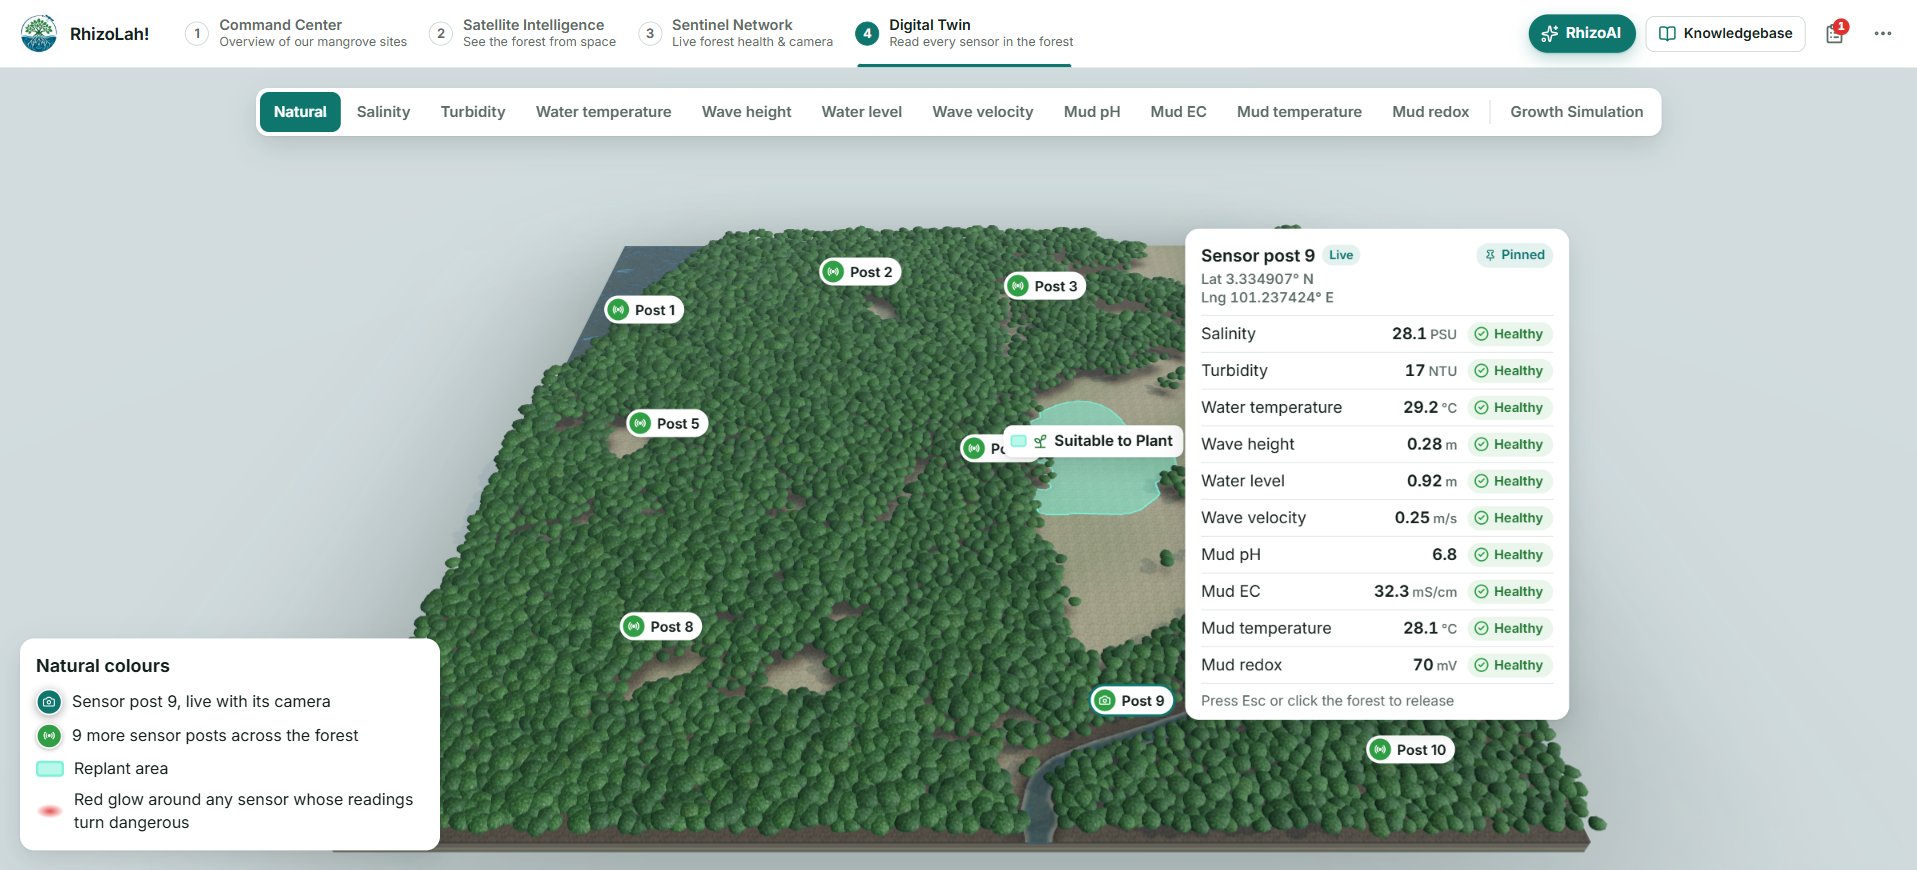
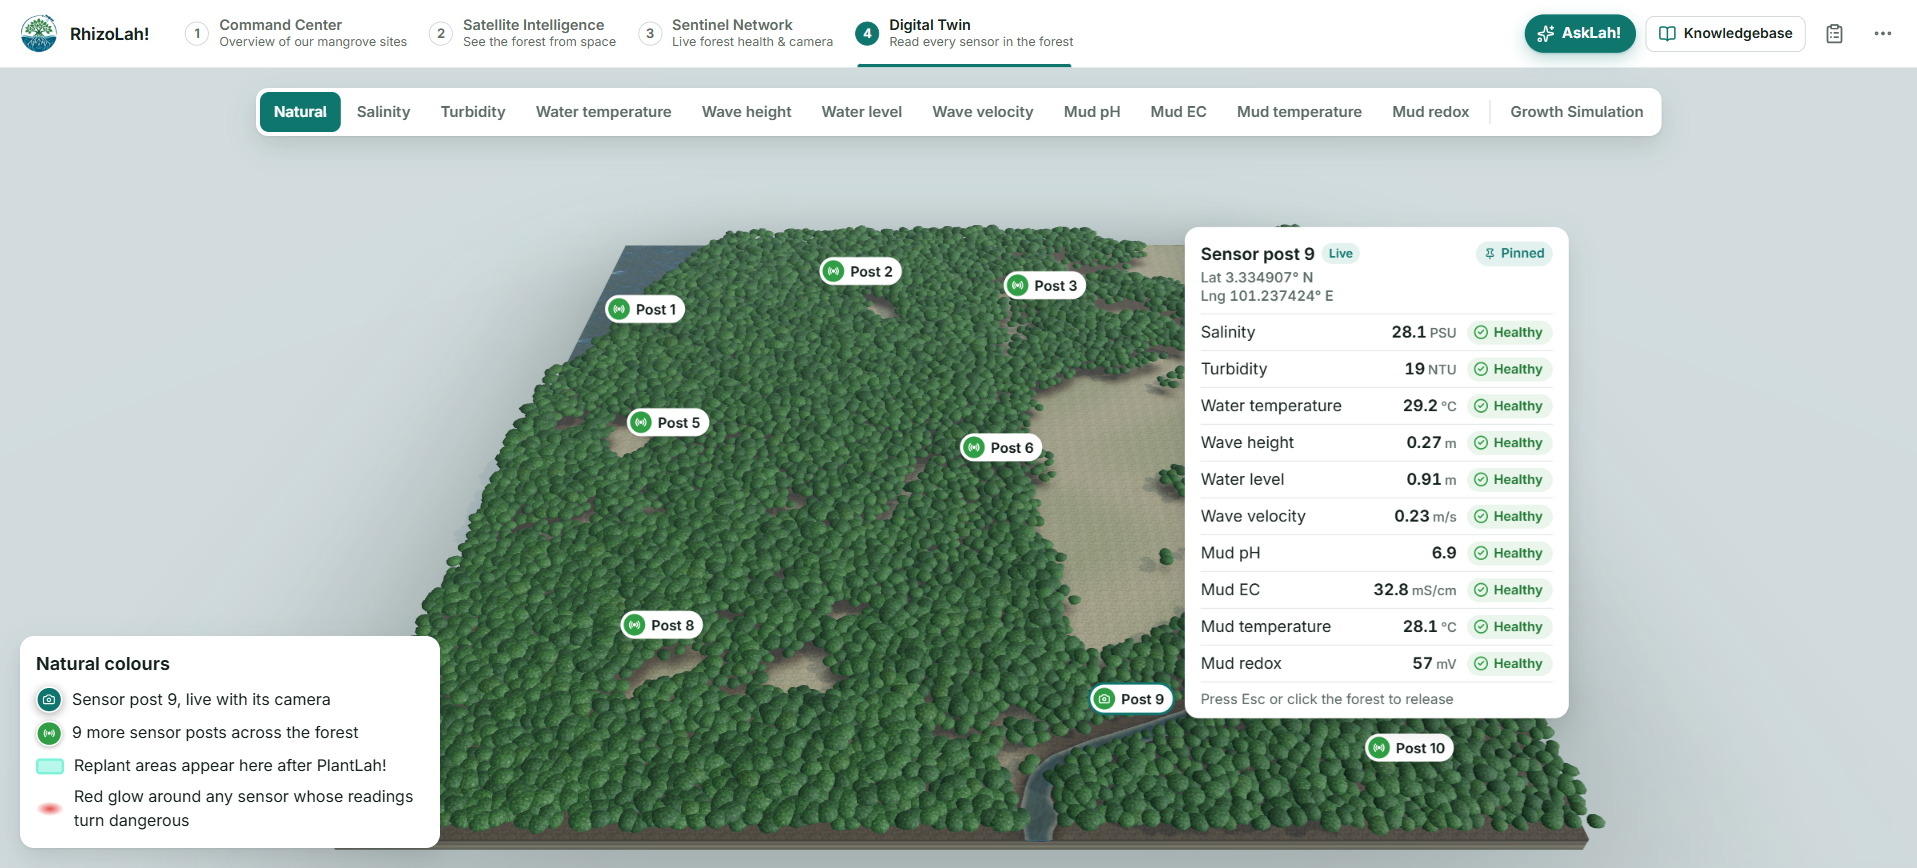
AskLah!

diff --git a/src/chat/ask.ts b/src/chat/ask.ts
@@ -14,7 +14,7 @@ export interface ChatTurn {
 const HISTORY_TURNS = 8
 
 function systemPrompt(): string {
-  return `You are "Ask RhizoLah!", the assistant inside RhizoLah!, a mangrove monitoring demo for Kuala Selangor Nature Park, Malaysia. Visitors are park staff, students and judges; write plain, friendly English (or the visitor's language if they write in Malay or another language).
+  return `You are "Ask RhizoLah!", the assistant inside RhizoLah! (Blue Carbon Sentinel), a mangrove monitoring demo for Kuala Selangor Nature Park, Malaysia. Visitors are park staff, students and judges; write plain, friendly English (or the visitor's language if they write in Malay or another language).
 
 RULES (follow every one):
 1. Answer ONLY from the KNOWLEDGEBASE and the LIVE SITUATION below. Do not use outside knowledge, do not invent numbers, species, pages or studies.

diff --git a/src/chat/Chatbot.tsx b/src/chat/Chatbot.tsx
@@ -168,7 +168,7 @@ export function ChatButton() {
       title="Ask RhizoLah! (AI answers from the Knowledgebase)"
       data-testid="chat-button"
     >
-      <Sparkles size={18} aria-hidden="true" /> <span className="chat-fab-word">RhizoAI</span>
+      <Sparkles size={18} aria-hidden="true" /> <span className="chat-fab-word">AskLah!</span>
     </button>
   )
 }

diff --git a/src/styles/app.css b/src/styles/app.css
@@ -1,4 +1,4 @@
-/* RhizoLah! demo. Light theme with the PRD's colour tokens (decision 4). */
+/* Blue Carbon Sentinel demo. Light theme with the PRD's colour tokens (decision 4). */
 
 :root {
   --bg: #F6F8F7;

diff --git a/README.md b/README.md
@@ -1,8 +1,8 @@
-# RhizoLah!
+# RhizoLah! | Blue Carbon Sentinel
 
 A browser-based demonstration of mangrove monitoring at Kuala Selangor Nature Park, Malaysia. Explore the site on a satellite map, compare it with a 3D forest, follow environmental readings, and try danger detection and replanting scenarios. With **Add Location** you can pick any 500 × 500 m square on Earth and the app generates a matching 3D forest for it from the live satellite image.
 
-This repository contains a frontend demo built with React, TypeScript and Vite. Sensor readings, camera activity, replanting scans and the text labelled "AI Suggestion" are simulated or generated locally. Satellite imagery comes from Mapbox. The one real AI feature is the **RhizoAI** chat, which uses the SEA-LION API and needs a SEA-LION API key (optional; everything else works without it). You do not need a backend, database or connected ESP32 board to run it.
+This repository contains a frontend demo built with React, TypeScript and Vite. Sensor readings, camera activity, replanting scans and the text labelled "AI Suggestion" are simulated or generated locally. Satellite imagery comes from Mapbox. The one real AI feature is the **AskLah!** chat, which uses the SEA-LION API and needs a SEA-LION API key (optional; everything else works without it). You do not need a backend, database or connected ESP32 board to run it.
 
 - [Product overview](#product-overview)
 - [Set up the project](#set-up-the-project)
@@ -30,19 +30,19 @@ See the Malaysian site catalogue, mangrove area, forest health and camera status
 
 Compare Mapbox satellite imagery on the left (captioned with the site name, or its latitude and longitude when it has none) with a 3D model of the same forest on the right. For Kuala Selangor the model uses stored, hand-traced canopy and water outlines. For any other site it is generated from the satellite image each time the site is opened. Drag to rotate the model, scroll to zoom, and select Sensor post 9 (the live post) to open its readings in Sentinel Network. Every post is labelled on the model ("Post 1" to "Post 10"), including the ones that are not live.
 
-![Satellite Intelligence showing the 500 by 500 metre satellite image of Kuala Selangor beside its 3D mangrove model and ten labelled sensor posts, with Sensor post 9 live](docs/images/satellite-intelligence.png)
+![Satellite Intelligence showing the 500 by 500 metre satellite image beside its 3D mangrove model and ten sensor posts](docs/images/satellite-intelligence.png)
 
 ### 3. Sentinel Network
 
 Follow ten measurements updated every two seconds: salinity, turbidity, water temperature, wave height, water level, wave velocity, mud pH, mud EC, mud temperature and mud redox. Mud redox is the microbe check: it shows how much oxygen the mud holds, and so which microbes it can support. Below -100 mV, sulfide-making microbes take over from the helpful ones. Each card shows a value, trend and health status. The first row also has two lists, **Mangrove Species** and **Soil Type** (both start at None; each card reads "Select for Calibration"). Choosing one colours the trees or the ground in the Digital Twin's Natural colours and Growth Simulation views; the colours are illustrative and change nothing else. The camera panel displays a photo after a simulated danger event, and the station map shows its location.
 
-![Sentinel Network showing Sensor post 9 healthy, the Mangrove Species and Soil Type lists, the mud redox and water sensor cards, the camera panel and the station location map](docs/images/sentinel-network.png)
+![Sentinel Network showing the Mangrove Species and Soil Type choices, healthy sensor cards, the camera panel and the station location map](docs/images/sentinel-network.png)
 
 ### 4. Digital Twin
 
 Explore the 3D forest in natural colours or select a measurement layer. Hover over a sensor post to see its coordinates and all nine readings; click the post to pin the card. Replant Areas are filled and outlined in mint and labelled "Suitable to Plant", "Planted, growing" or "Grown"; point at the label for the AI Suggestion card, click it to pin. The card leads with a photo of the suggested species and four answers: Mangrove Species, Soil Type, Number of Seedlings for the empty area, and the Distance between seedlings (a square grid; Rhizophora spacings are Matang's, the other species use demo guide values). The reasons, sources and Readings fold away under **Why this suggestion** and scroll. Pin the card and point at **Cost** (bottom right) for everything it would take to finish planting the area: seedlings, stakes, labour, transport, any soil or mud the advice asks for, replacing first-year losses, site preparation and monitoring. The prices are demo estimates in ringgit, set in `src/sim/planting.ts`. The last layer, **Growth Simulation**, previews seeds growing into trees in the Replant Areas over 15 years (Play runs it in about 10 seconds). Its panel also shows the **Estimated CO₂ reduced** by the planted trees at the chosen year: above-ground only, from Matang's measured biomass (K4) scaled by the K3 growth curves and the plants still standing. Monitoring stays at Year 1 in this demo.
 
-![Digital Twin showing the 3D forest, measurement layers, labelled sensor posts, a Replant Area marked Suitable to Plant and the pinned reading card of Sensor post 9](docs/images/digital-twin.png)
+![Digital Twin showing the 3D forest, measurement layers, labelled sensor posts and the pinned reading card for Sensor post 9](docs/images/digital-twin.png)
 
 ## Set up the project
 
@@ -74,16 +74,16 @@ Both commands should print a version number. If either command is unrecognised, 
 If you use Git, run these commands from the directory where you keep projects:
 
 ```sh
-git clone https://github.com/ShawnLYZ/RhizoLah.git
-cd RhizoLah
+git clone https://github.com/ShawnLYZ/Blue-Carbon-Sentinel.git
+cd Blue-Carbon-Sentinel
 ```
 
-Alternatively, open the [GitHub repository](https://github.com/ShawnLYZ/RhizoLah), select **Code → Download ZIP**, and extract the ZIP. Open a terminal in the extracted folder containing `package.json`. The folder may be named `RhizoLah-main`.
+Alternatively, open the [GitHub repository](https://github.com/ShawnLYZ/Blue-Carbon-Sentinel), select **Code → Download ZIP**, and extract the ZIP. Open a terminal in the extracted folder containing `package.json`. The folder may be named `Blue-Carbon-Sentinel-main`.
 
 On Windows, you can open that folder in File Explorer, click the address bar, type `powershell`, and press Enter. You can also change directory manually, replacing this example with your actual folder:
 
 ```powershell
-cd "C:\path\to\RhizoLah"
+cd "C:\path\to\Blue-Carbon-Sentinel"
 ```
 
 ### Step 3: Configure the Mapbox token
@@ -121,9 +121,9 @@ Use a public token for this browser application. Vite includes `VITE_` values in
 
 The sensors and 3D demo can run without a token, but the map panels will show "Satellite image unavailable". After changing `.env.local`, stop and restart the development server. Rebuild if you are using a production build.
 
-#### Optional: the SEA-LION key for RhizoAI
+#### Optional: the SEA-LION key for AskLah!
 
-The **RhizoAI** chat calls [SEA-LION](https://sea-lion.ai/), AI Singapore's Southeast Asian language model. Get an API key from the [SEA-LION playground](https://playground.sea-lion.ai/) and add it to the same `.env.local` file:
+The **AskLah!** chat calls [SEA-LION](https://sea-lion.ai/), AI Singapore's Southeast Asian language model. Get an API key from the [SEA-LION playground](https://playground.sea-lion.ai/) and add it to the same `.env.local` file:
 
 ```env
 SEALION_API_KEY=sk-paste_your_key_here
@@ -208,9 +208,9 @@ The camera panel also has a **SaveLah!** action when its generated warning or da
 
 Kuala Selangor has three predefined patches; an added site has up to three, found from its image, and may have none. After a site's patches have all been used, a scan reports that no suitable empty area was found. Use **Reset demo** to make the patches available again. The year stays at 1; trees appear only in the Growth Simulation preview.
 
-### Ask RhizoAI about the forest
+### AskLah! about the forest
 
-Select **RhizoAI** in the top bar (left of the Knowledgebase). A chat window opens at the top right; the page under it keeps working, and **Esc** or the **×** closes it. Pick a suggested question or type your own, in English or Malay.
+Select **AskLah!** in the top bar (left of the Knowledgebase). A chat window opens at the top right; the page under it keeps working, and **Esc** or the **×** closes it. Pick a suggested question or type your own, in English or Malay.
 
 Each question is sent with the Knowledgebase (the seven built-in sources, as short facts with page numbers where known) and a snapshot of what is on screen at that moment: the Current Site, all ten readings and their Bands, any danger episode, the camera, Replant Areas with their Species Suggestion and mud check, and open tasks. The model is told to answer only from those. Every sentence ends with a source box, the same as "Suitable to Plant" in the Digital Twin: a numbered book box opens that source in the Knowledgebase, and a green **Live** box marks a fact from the simulated readings (it opens the Sentinel Network). If the Knowledgebase does not cover a question, the answer says so. If an answer cites no Knowledgebase source, a warning shows under it.
 
@@ -327,7 +327,7 @@ The stack is React for the interface, Mapbox GL JS for maps, three.js for the fo
 ## Project structure
 
 ```text
-RhizoLah/
+Blue-Carbon-Sentinel/
 ├── README.md                   # Overview and setup guide
 ├── .env.example                # Template for the Mapbox token and SEA-LION key
 ├── camera-photos/              # Optional custom danger camera images
@@ -339,7 +339,7 @@ RhizoLah/
 │   └── species-photos/         # One photo per Mangrove Species for the AI Suggestion card, with credits
 ├── src/
 │   ├── app/                   # App shell, navigation and top menu
-│   ├── chat/                  # RhizoAI chat: Knowledgebase facts, live situation snapshot, SEA-LION chat window
+│   ├── chat/                  # AskLah! chat: Knowledgebase facts, live situation snapshot, SEA-LION chat window
 │   ├── forest/                # 3D scene, forest generator (survey, classify, model, layout) and worker
 │   ├── geo/                   # Coordinates and each site's monitored square
 │   ├── maps/                  # Mapbox setup, globe and site maps
@@ -368,8 +368,8 @@ For changes to sensor bands, start with `src/sim/ranges.ts`. Simulation timing i
 | Dependency installation fails | Check your internet connection and npm's error message. After resolving the reported issue, rerun `npm ci`. |
 | Port 5173 is already in use | Stop the other server using that port, then try again. The project's strict port setting prevents an automatic switch. For a separate port, use `npm run dev -- --port 5174` and allow that address in your Mapbox token restrictions. |
 | The browser did not open | Open the local URL printed by Vite, normally [http://localhost:5173](http://localhost:5173). Keep the server terminal open. |
-| RhizoAI says "No SEA-LION key" or "The SEA-LION key was refused" | Add or correct `SEALION_API_KEY` in `.env.local` (no quotes, no `VITE_` prefix), then restart `npm run dev`. |
-| RhizoAI says the chat service is only available with npm run dev | The chat relay runs inside the Vite server. Use `npm run dev` or `npm run preview`, not another web server for `dist`. |
+| AskLah! says "No SEA-LION key" or "The SEA-LION key was refused" | Add or correct `SEALION_API_KEY` in `.env.local` (no quotes, no `VITE_` prefix), then restart `npm run dev`. |
+| AskLah! says the chat service is only available with npm run dev | The chat relay runs inside the Vite server. Use `npm run dev` or `npm run preview`, not another web server for `dist`. |
 | "Satellite image unavailable" | Check your connection, the public token, the exact `VITE_MAPBOX_TOKEN` name and the location of `.env.local`. Check allowed URLs if the token is restricted. Restart Vite after editing the file. |
 | The token seems correct but maps still fail | Check the browser console and network panel for Mapbox errors. A rejected token, blocked request or account access issue must be resolved before imagery can load. |
 | The 3D view is unavailable or slow | Enable browser graphics acceleration, restart the browser and close other GPU-heavy tabs. The model also lowers quality automatically when performance drops. |
